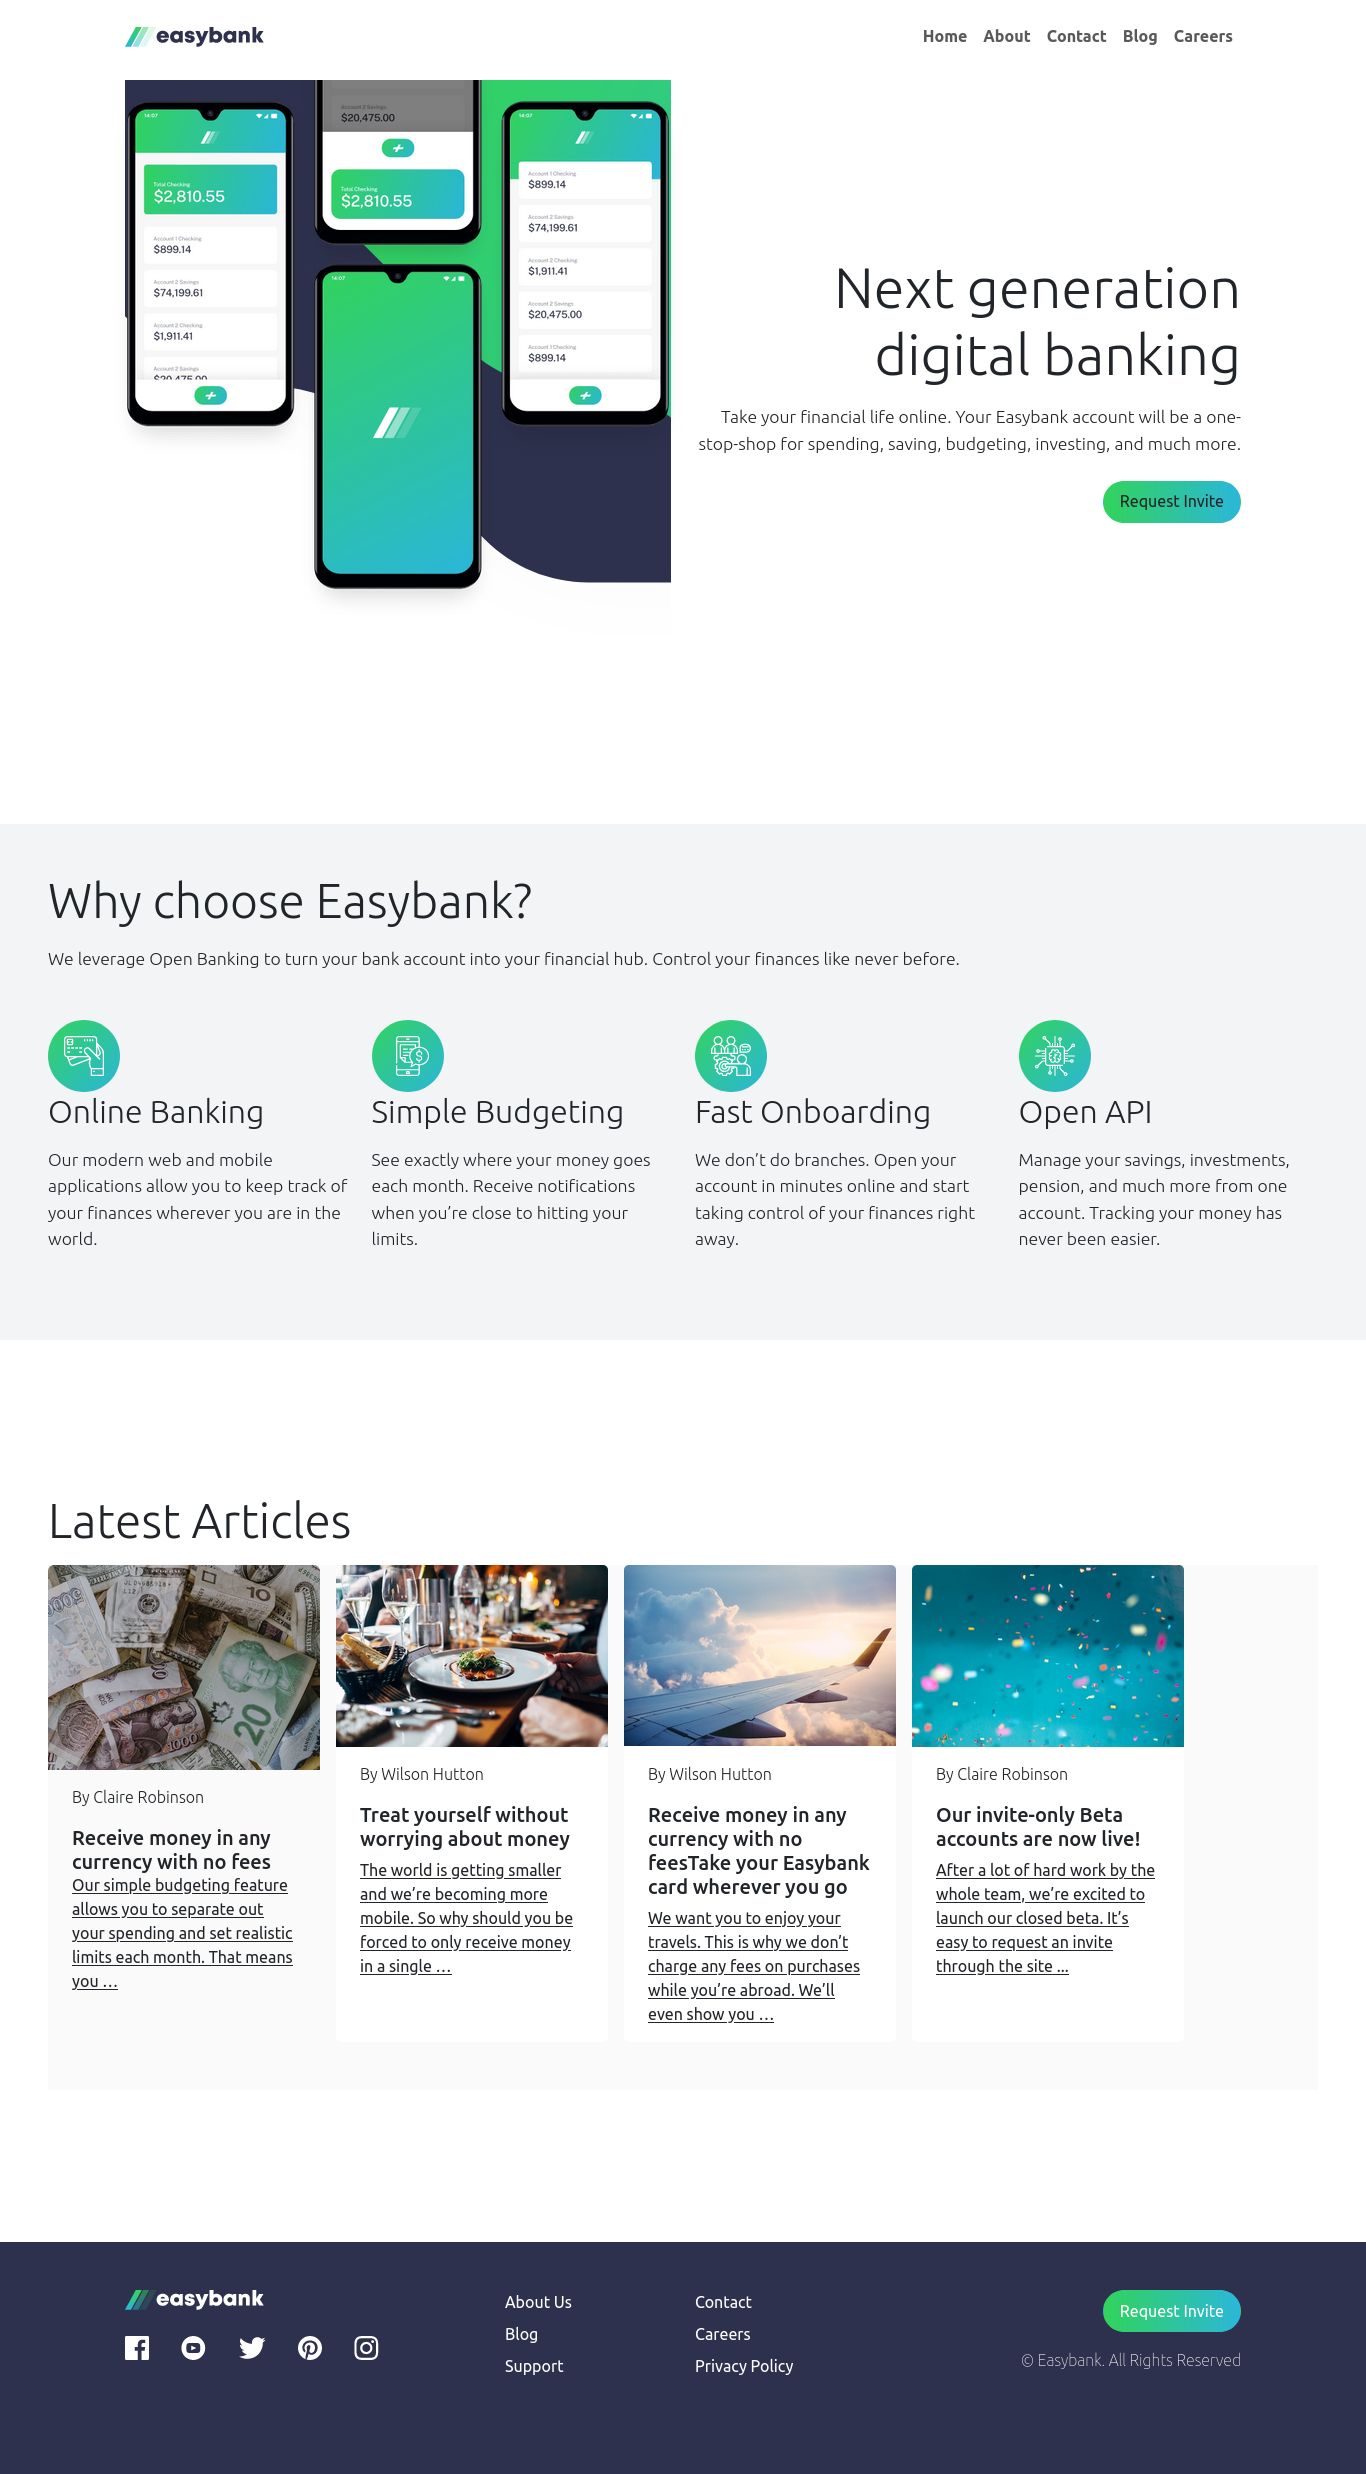
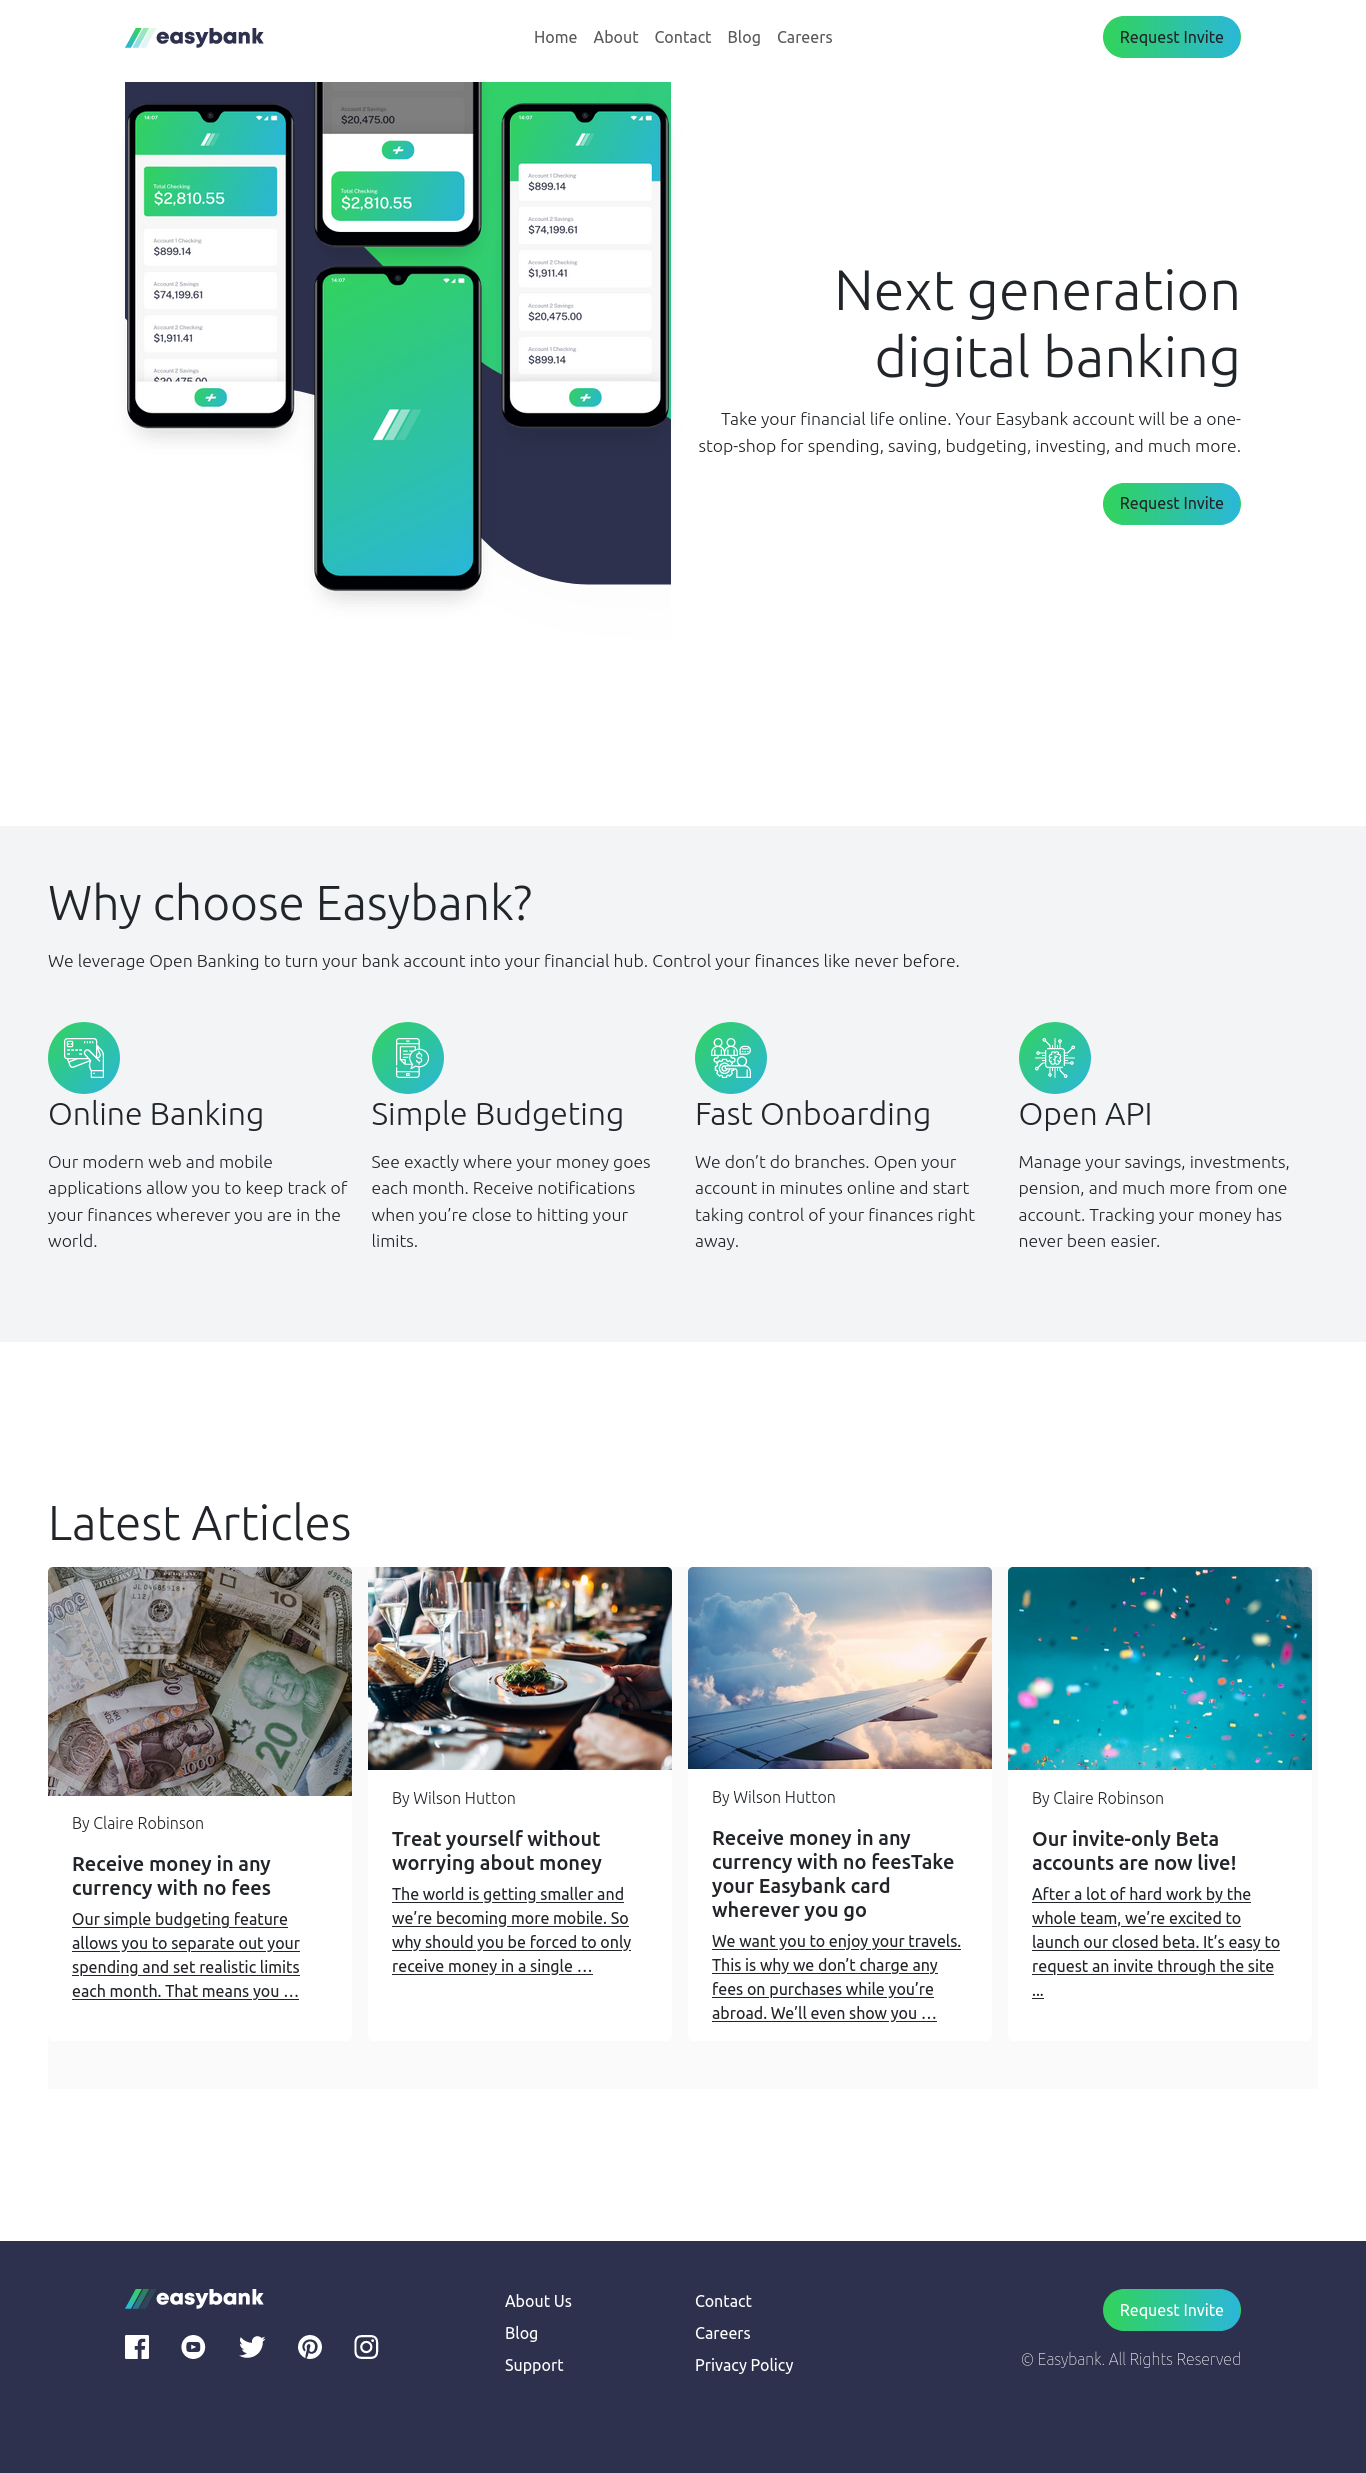
Improved overall design layout

diff --git a/index.html b/index.html
@@ -6,12 +6,12 @@
 
   <link rel="icon" type="image/png" sizes="32x32" href="./images/favicon-32x32.png">
 
-  <!-- <link rel="stylesheet" href="node_modules/bootstrap/dist/css/bootstrap.min.css"> -->
-  <link rel="stylesheet" href="https://cdn.jsdelivr.net/npm/bootstrap@5.3.3/dist/css/bootstrap.min.css">
+  <link rel="stylesheet" href="node_modules/bootstrap/dist/css/bootstrap.min.css">
+  <!-- <link rel="stylesheet" href="https://cdn.jsdelivr.net/npm/bootstrap@5.3.3/dist/css/bootstrap.min.css"> -->
 
   <script defer src="index.js"></script>
-  <!-- <script defer src="node_modules/bootstrap/dist/js/bootstrap.bundle.min.js"></script> -->
-  <script defer src="https://cdn.jsdelivr.net/npm/bootstrap@5.3.3/dist/js/bootstrap.bundle.min.js"></script>
+  <script defer src="node_modules/bootstrap/dist/js/bootstrap.bundle.min.js"></script>
+  <!-- <script defer src="https://cdn.jsdelivr.net/npm/bootstrap@5.3.3/dist/js/bootstrap.bundle.min.js"></script> -->
   
   <title>Frontend Mentor | Easybank landing page</title>
 
@@ -19,6 +19,15 @@
   <style>
     p.lead{
       font-size: 1.1rem;
+    }
+
+    .card-body .card-title:hover{
+      color: hsl(136, 65%, 51%);
+      cursor: pointer;
+    }
+
+    a.card-text{
+      color: rgb(63, 63, 63);
     }
 
     section{
@@ -34,21 +43,19 @@
 <body class="">
 
   <header style="margin-bottom: 8rem;">
+    
     <nav class="navbar px-lg-0  py-3 px-2  justify-content-center  navbar-expand-md mb-0 pb-md-4  ">
       <div class="container-lg">
 
-        <div>
-          <img src="images/logo.svg" alt="">
-        </div>
+        <div><img src="images/logo.svg" alt=""></div>
 
         <button class="navbar-toggler border-0 focus-ring focus-ring-light " type="button" data-bs-toggle="collapse" data-bs-target="#navbarTogglerDemo01" aria-controls="navbarTogglerDemo01" aria-expanded="false" aria-label="Toggle navigation">
           <span class="navbar-toggler-icon"></span>
         </button>
 
-        
-
+      
         <div class="collapse  navbar-collapse flex-sm-grow-0" id="navbarTogglerDemo01">
-          <ul class="navbar-nav me-auto mb-2 mb-lg-0 fw-bold ">
+          <ul class="navbar-nav me-auto mb-2 mb-lg-0 ">
             <li class="nav-item"><a class="nav-link" href="#">Home</a></li>
             <li class="nav-item"><a class="nav-link " href="#">About</a></li>
             <li class="nav-item"><a class="nav-link " href="#">Contact</a></li>
@@ -56,10 +63,13 @@
             <li class="nav-item"><a class="nav-link " href="#">Careers</a></li>
           </ul>
         </div>
+
+        <div class="d-none d-md-inline-block"><button style="background-image: linear-gradient(to right, hsl(136, 65%, 51%), hsl(192, 70%, 51%));" class="btn rounded-pill py-2 px-3">Request Invite</button></div>        
+
       </div>
     </nav>
 
-    <div style="" class="container-lg">
+    <div class="container-lg ">
       <div class="row   justify-content-lg-between ">
         <div class="col-lg-6 d-grid position-relative overflow-hidden">
           <img id="intro" class="w-100  " src="images/bg-intro-mobile.svg" alt="">
@@ -124,43 +134,45 @@
 
       <div style="background-color: hsl(0, 0%, 98%);" class="container mw-100 justify-content-center justify-content-lg-start ">
         <div class="row gap-3 justify-content-center justify-content-md-start">
-          <div style="max-width: 17rem;" class=" mb-5 px-0 border-0">
-            <img src="images/image-currency.jpg" class="card-img-top rounded-top-2 " alt="...">
+
+          <div style="max-width: 19rem;" class="col-lg-3 card mb-5 px-0 border-0">
+            <img src="images/image-currency.jpg" class="card-img-top" alt="...">
             <div class="card-body text-start px-4 ">
-              <p class="card-text fw-light pt-3 ">By Claire Robinson</p>
+              <p class="card-text fw-light ">By Claire Robinson</p>
               <h5 class="card-title">Receive money in any currency with no fees</h5>
-              <p class="card-text text-decoration-underline ">Our simple budgeting feature allows you to separate out your spending and set 
-                realistic limits each month. That means you …</p>
+              <a href="#" class="card-text text-decoration-underline">Our simple budgeting feature allows you to separate out your spending and set 
+                realistic limits each month. That means you …</a>
             </div>
           </div>
+        
   
-          <div style="max-width: 17rem;" class="col-lg-3 card mb-5 px-0 border-0">
+          <div style="max-width: 19rem;" class="col-lg-3 card mb-5 px-0 border-0">
             <img src="images/image-restaurant.jpg" class="card-img-top" alt="...">
             <div class="card-body text-start px-4 ">
               <p class="card-text fw-light ">By Wilson Hutton</p>
               <h5 class="card-title">Treat yourself without worrying about money</h5>
-              <p class="card-text text-decoration-underline">The world is getting smaller and we’re becoming more mobile. So why should you be 
-                forced to only receive money in a single …</p>
+              <a href="#" class="card-text text-decoration-underline">The world is getting smaller and we’re becoming more mobile. So why should you be 
+                forced to only receive money in a single …</a>
             </div>
           </div>
   
-          <div style="max-width: 17rem;" class="col-lg-3 card mb-5 px-0 border-0">
+          <div style="max-width: 19rem;" class="col-lg-3 card mb-5 px-0 border-0">
             <img src="images/image-plane.jpg" class="card-img-top" alt="...">
             <div class="card-body text-start px-4 ">
               <p class="card-text fw-light ">By Wilson Hutton</p>
               <h5 class="card-title">Receive money in any currency with no feesTake your Easybank card wherever you go</h5>
-              <p class="card-text text-decoration-underline">We want you to enjoy your travels. This is why we don’t charge any fees on purchases 
-                while you’re abroad. We’ll even show you …</p>
+              <a href="#" class="card-text text-decoration-underline">We want you to enjoy your travels. This is why we don’t charge any fees on purchases 
+                while you’re abroad. We’ll even show you …</a>
             </div>
           </div>
   
-          <div style="max-width: 17rem;" class="col-lg-3 card mb-5 px-0 border-0">
+          <div style="max-width: 19rem;" class="col-lg-3 card mb-5 px-0 border-0">
             <img src="images/image-confetti.jpg" class="card-img-top" alt="...">
             <div class="card-body text-start px-4 ">
               <p class="card-text fw-light ">By Claire Robinson</p>
               <h5 class="card-title">Our invite-only Beta accounts are now live!</h5>
-              <p class="card-text text-decoration-underline">After a lot of hard work by the whole team, we’re excited to launch our closed beta. 
-                It’s easy to request an invite through the site ...</p>
+              <a href="#" class="card-text text-decoration-underline">After a lot of hard work by the whole team, we’re excited to launch our closed beta. 
+                It’s easy to request an invite through the site ...</a>
             </div>
           </div>
         </div>

diff --git a/README.md b/README.md
@@ -10,11 +10,7 @@ This is a solution to the [Easybank landing page challenge on Frontend Mentor](h
   - [Links](#links)
 - [My process](#my-process)
   - [Built with](#built-with)
-  - [What I learned](#what-i-learned)
-  - [Continued development](#continued-development)
-  - [Useful resources](#useful-resources)
 - [Author](#author)
-- [Acknowledgments](#acknowledgments)
 
 
 ## Overview
@@ -28,14 +24,14 @@ Users should be able to:
 
 ### Screenshot
 
-![Screenshot](./image.png)
+![Screenshot](image.png)
 
 
 
 ### Links
 
- - [Solution](https://your-solution-url.com)
- - [Live Site](https://your-live-site-url.com)
+ - [Solution @ frontendmentor.io](https://your-solution-url.com)
+ - [Live Site](https://seyi-amusan.github.io/easybank-landing-page/)
 
 ## My process
 
@@ -51,5 +47,6 @@ Users should be able to:
 
 ## Author
 
+- Upwork - [Seyi-Amusan](https://www.upwork.com/freelancers/~010722464f8f321738?mp_source=share)
 - Frontend Mentor - [Seyi-Amusan](https://www.frontendmentor.io/profile/Seyi-Amusan)
 
